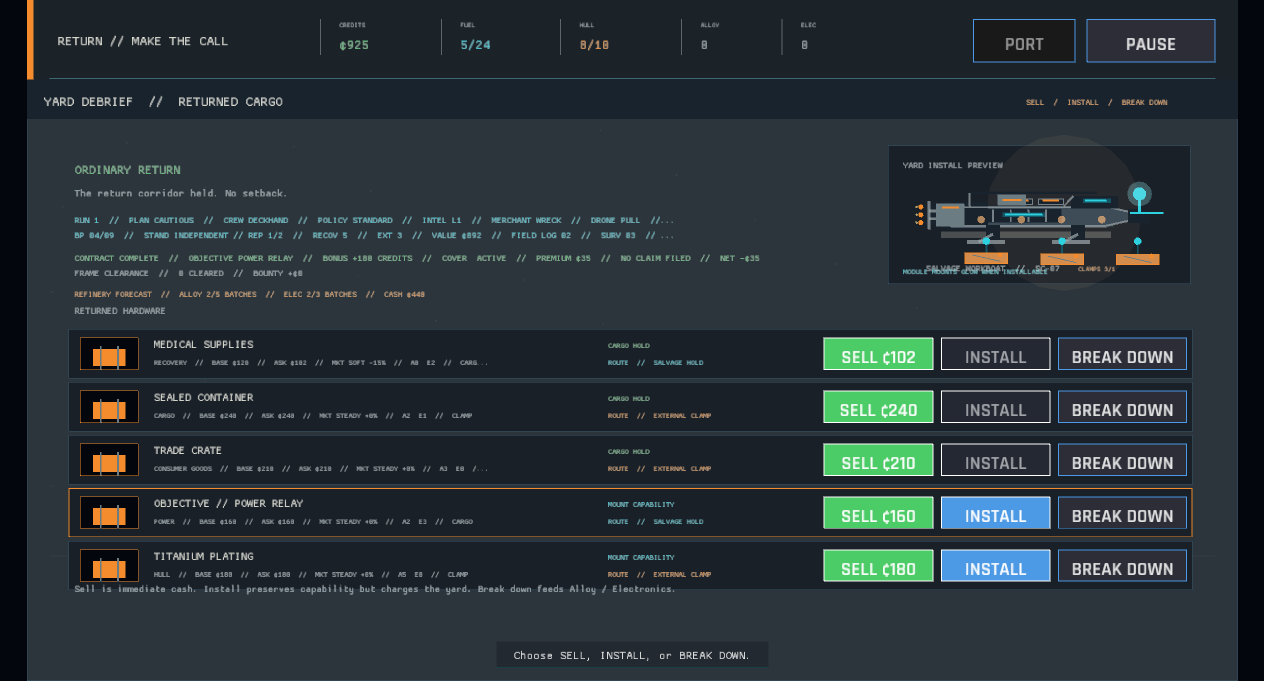
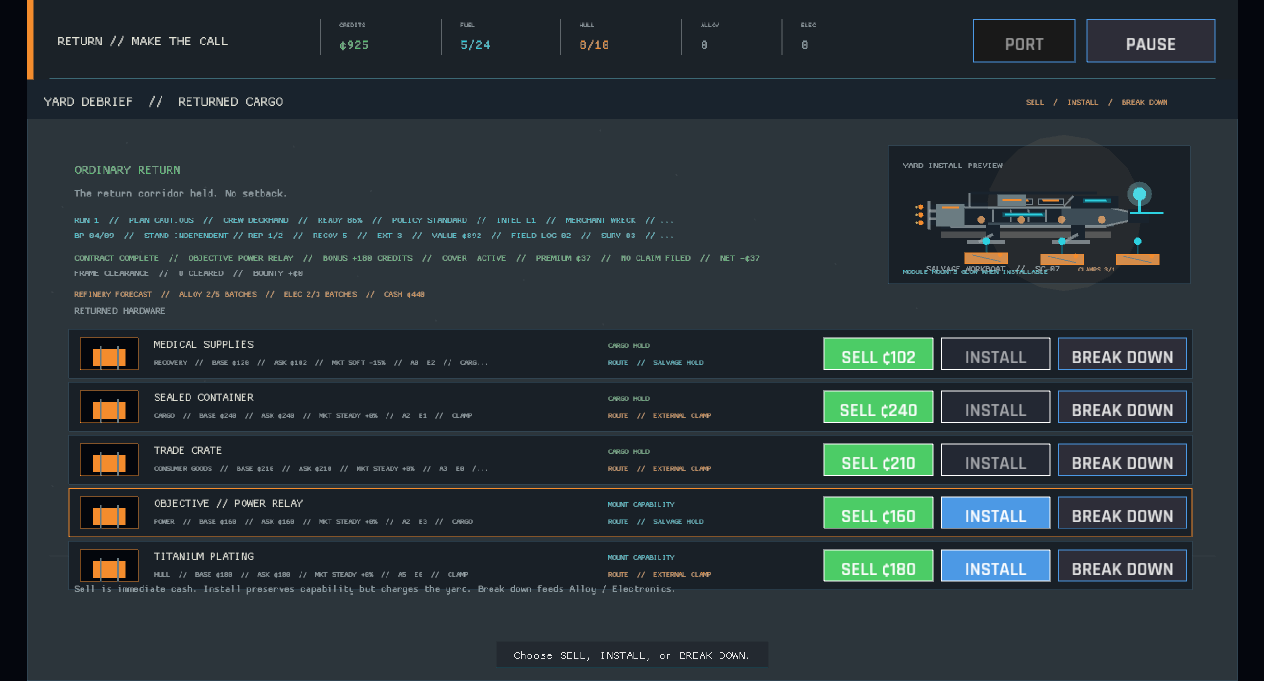
The yard debrief records how much strength the return left behind (crew readiness result telemetry)
Completed-run telemetry now places crew readiness beside the assigned crew and return policy, so the captain can see the fatigue carried into the next port visit. The focused debrief test and refreshed results capture verify the readout.

diff --git a/src/ui/decision_panel.rs b/src/ui/decision_panel.rs
@@ -84,6 +84,7 @@ fn draw_debrief(ctx: &UiContext<'_>) {
                     scan_profile,
                     record.voyage_plan,
                     ctx.session.crew_role(),
+                    ctx.session.crew_readiness(),
                     ctx.session.last_return_policy,
                     record.drone_directive,
                     record.reconnaissance_level,
@@ -234,16 +235,18 @@ fn debrief_run_label(
     scan_profile: WorkspaceScanProfile,
     voyage_plan: crate::engine::VoyagePlan,
     crew_role: CrewRole,
+    crew_readiness: u8,
     return_policy: ReturnPolicy,
     drone_directive: DroneDirective,
     reconnaissance_level: u8,
     return_fuel: i32,
 ) -> String {
     format!(
-        "RUN {}  //  PLAN {}  //  CREW {}  //  POLICY {}  //  {}  //  {}  //  DRONE {}  //  SCAN {}  //  RETURN {} FUEL",
+        "RUN {}  //  PLAN {}  //  CREW {}  //  READY {}%  //  POLICY {}  //  {}  //  {}  //  DRONE {}  //  SCAN {}  //  RETURN {} FUEL",
         run_number,
         voyage_plan.label(),
         crew_role.short_label(),
+        crew_readiness,
         return_policy.short_label(),
         debrief_intelligence_label(reconnaissance_level),
         site_name,

diff --git a/src/ui/decision_panel/tests.rs b/src/ui/decision_panel/tests.rs
@@ -8,6 +8,7 @@ fn debrief_run_label_keeps_survey_memory_visible() {
         WorkspaceScanProfile::Array,
         crate::engine::VoyagePlan::Standard,
         crate::state::CrewRole::Deckhand,
+        79,
         crate::state::ReturnPolicy::Standard,
         crate::state::DroneDirective::Survey,
         2,
@@ -28,7 +29,7 @@ fn debrief_run_label_keeps_survey_memory_visible() {
     assert!(label.contains("MERCHANT WRECK  //  DRONE SURVEY  //  SCAN ARRAY"));
     assert!(label.contains("DRONE SURVEY"));
     assert!(label
-        .contains("RUN 2  //  PLAN STANDARD  //  CREW DECKHAND  //  POLICY STANDARD  //  INTEL L2  //  MERCHANT WRECK"));
+        .contains("RUN 2  //  PLAN STANDARD  //  CREW DECKHAND  //  READY 79%  //  POLICY STANDARD  //  INTEL L2  //  MERCHANT WRECK"));
     assert!(label.ends_with("SCAN ARRAY  //  RETURN 2 FUEL"));
     assert!(memory_label.starts_with("BP 05/09  //  STAND TRUSTED SALVOR // REP 4/7"));
     assert!(memory_label.contains("STAND TRUSTED SALVOR // REP 4/7  //  RECOV 1"));
